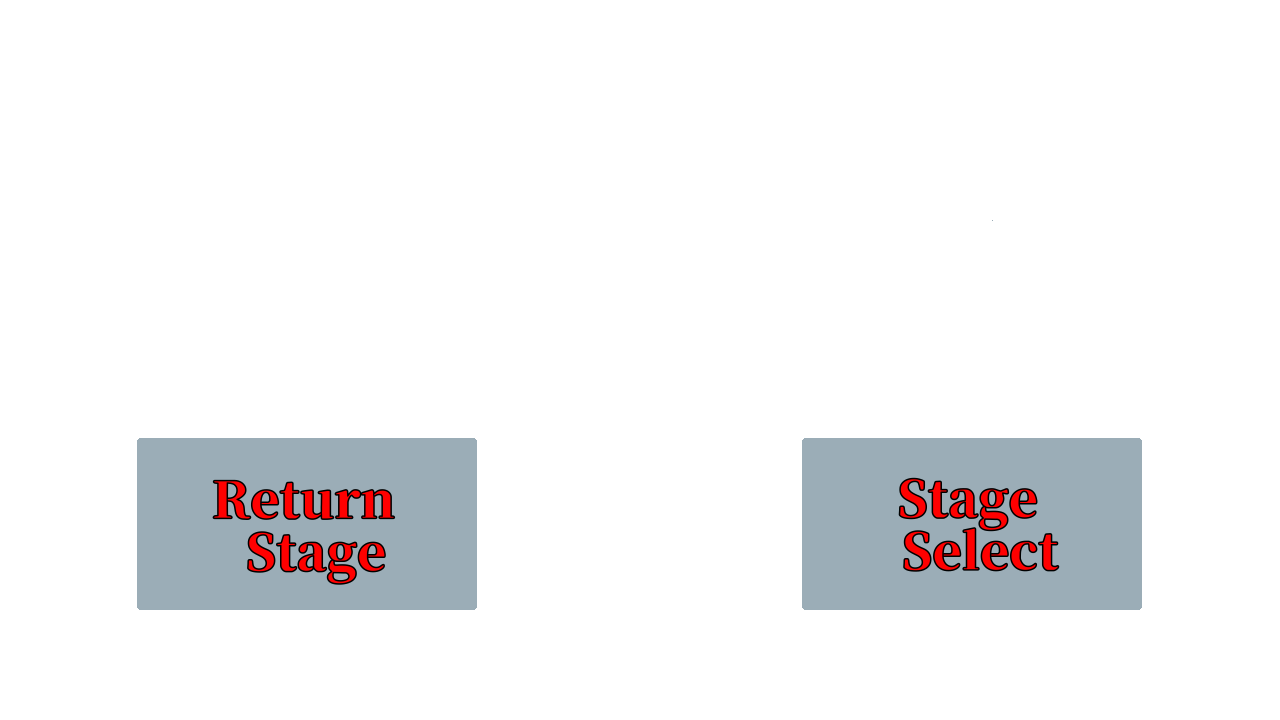
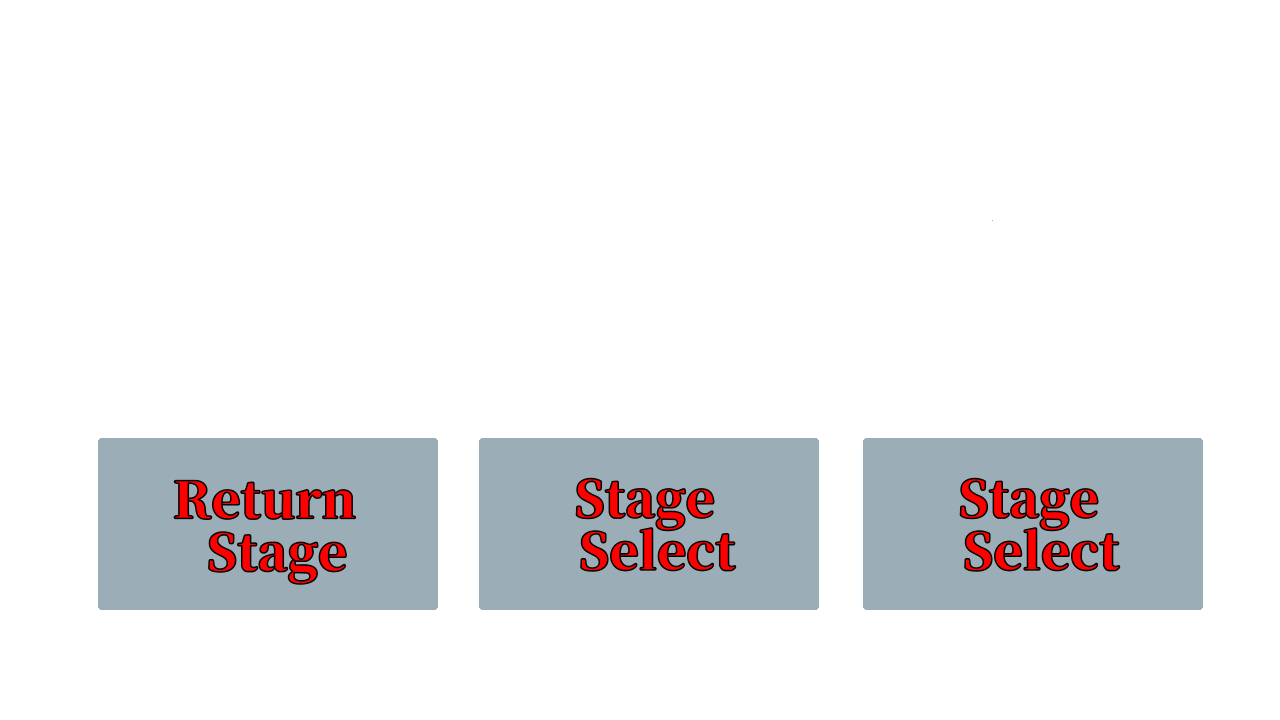
Goal途中まで

Changed region(s): [[0.3438, 0.6111, 0.9375, 0.8556], [0.0625, 0.6111, 0.3125, 0.8556]]

diff --git a/project/gamedata/scenes/GameClearScene.cpp b/project/gamedata/scenes/GameClearScene.cpp
@@ -40,9 +40,6 @@ void GameClearScene::Initialize() {
 		sprite_[i]->SetAnchor(Vector2{ 0.5f,0.5f });
 	}
 
-	spriteTransform_[3].translate.num[0] = 717.0f;
-	spriteTransform_[3].translate.num[1] = 632.0f;
-
 	//Timer
 	numbers_ = std::make_unique<Numbers>();
 	numbers_->Initialize();
@@ -54,6 +51,9 @@ void GameClearScene::Initialize() {
 
 	//Datas
 	datas_ = Datas::GetInstance();
+
+	spriteTransform_[3].translate.num[0] = 1061.0f;
+	spriteTransform_[3].translate.num[1] = 632.0f;
 }
 
 void GameClearScene::Update() {
@@ -63,14 +63,24 @@ void GameClearScene::Update() {
 	numbers_->SetNum(datas_->GetClearTime() / 60);
 	numbers_->SetTransform(numbersTransform_);
 
-	if (input_->PressKey(DIK_A) && spriteTransform_[3].translate.num[0] == 1381.0f)
+	if (input_->TriggerKey(DIK_A) && spriteTransform_[3].translate.num[0] == 1061.0f)
 	{
-		spriteTransform_[3].translate.num[0] = 717.0f;
+		spriteTransform_[3].translate.num[0] = 680.0f;
 	}
 
-	if (input_->PressKey(DIK_D) && spriteTransform_[3].translate.num[0] == 717.0f)
+	if (input_->TriggerKey(DIK_A) && spriteTransform_[3].translate.num[0] == 1441.0f)
 	{
-		spriteTransform_[3].translate.num[0] = 1381.0f;
+		spriteTransform_[3].translate.num[0] = 1061.0f;
+	}
+
+	if (input_->TriggerKey(DIK_D) && spriteTransform_[3].translate.num[0] == 1061.0f)
+	{
+		spriteTransform_[3].translate.num[0] = 1441.0f;
+	}
+
+	if (input_->TriggerKey(DIK_D) && spriteTransform_[3].translate.num[0] == 680.0f)
+	{
+		spriteTransform_[3].translate.num[0] = 1061.0f;
 	}
 
 	ImGui::Begin("debug");
@@ -79,19 +89,34 @@ void GameClearScene::Update() {
 	ImGui::SliderFloat3("trans", numbersTransform_.translate.num, 0.0f, 2280.0f);
 	ImGui::End();
 
-	if (spriteTransform_[3].translate.num[0] == 717.0f && input_->TriggerKey(DIK_SPACE) && 
+	//左側(現在のステージを繰り返し)
+	if (spriteTransform_[3].translate.num[0] == 680.0f && input_->TriggerKey(DIK_SPACE) &&
 		GameSelectScene::stageNum == 1) {
 		sceneNo = GAME_SCENE;
 		audio_->SoundPlayWave(selectData_, 0.1f, false);
 	}
 
-	if (spriteTransform_[3].translate.num[0] == 717.0f && input_->TriggerKey(DIK_SPACE) &&
+	if (spriteTransform_[3].translate.num[0] == 680.0f && input_->TriggerKey(DIK_SPACE) &&
 		GameSelectScene::stageNum == 2) {
 		sceneNo = GAME_SCENE2;
 		audio_->SoundPlayWave(selectData_, 0.1f, false);
 	}
 
-	if (spriteTransform_[3].translate.num[0] == 1381.0f && input_->TriggerKey(DIK_SPACE)) {
+	//真ん中(次のステージ)
+	if (spriteTransform_[3].translate.num[0] == 1061.0f && input_->TriggerKey(DIK_SPACE) &&
+		datas_->GetStageNum() == 1) {
+		sceneNo = GAME_SCENE2;
+		audio_->SoundPlayWave(selectData_, 0.1f, false);
+	}
+
+	if (spriteTransform_[3].translate.num[0] == 1061.0f && input_->TriggerKey(DIK_SPACE) &&
+		datas_->GetStageNum() == 2) {
+		sceneNo = TITLE_SCENE;
+		audio_->SoundPlayWave(selectData_, 0.1f, false);
+	}
+
+	//右側(ステージセレクト)
+	if (spriteTransform_[3].translate.num[0] == 1441.0f && input_->TriggerKey(DIK_SPACE)) {
 		sceneNo = SELECT_SCENE;
 		audio_->SoundPlayWave(selectData_, 0.1f, false);
 	}

diff --git a/project/gamedata/scenes/GamePlayScene2.cpp b/project/gamedata/scenes/GamePlayScene2.cpp
@@ -146,6 +146,8 @@ void GamePlayScene2::Update() {
 	globalVariables = GlobalVariables::GetInstance();
 	ApplyGlobalVariables();
 
+	datas_->SetStageNum(2);
+
 	if (isGameStart_ == true) {//ゲーム開始時の処理
 		for (int i = 0; i < objCount_; i++) {
 			SetObject(EulerTransform{ { 1.0f,1.0f,1.0f }, {0.0f,0.0f,0.0f}, {0.0f,0.0f,0.0f} }, objNameHolder_[i]);
@@ -258,14 +260,14 @@ void GamePlayScene2::Update() {
 		}
 	}
 
-	if (input_->TriggerKey(DIK_X)) {//Xkeyでカーソル表示変更
-		if (showCursor == (int)true) {
-			showCursor = (int)false;
-		}
-		else {
-			showCursor = (int)true;
-		}
-	}
+	//if (input_->TriggerKey(DIK_X)) {//Xkeyでカーソル表示変更
+	//	if (showCursor == (int)true) {
+	//		showCursor = (int)false;
+	//	}
+	//	else {
+	//		showCursor = (int)true;
+	//	}
+	//}
 
 	for (Obj& obj : objects_) {//レイとオブジェクトの当たり判定
 		if (obj.isHit == true) {

diff --git a/project/gamedata/scenes/GamePlayScene.cpp b/project/gamedata/scenes/GamePlayScene.cpp
@@ -146,6 +146,8 @@ void GamePlayScene::Update() {
 	globalVariables = GlobalVariables::GetInstance();
 	ApplyGlobalVariables();
 
+	datas_->SetStageNum(1);
+
 	if (isGameStart_ == true) {//ゲーム開始時の処理
 		for (int i = 0; i < objCount_; i++) {
 			SetObject(EulerTransform{ { 4.0f,30.0f,4.0f }, {0.0f,0.0f,0.0f}, {0.0f,0.0f,0.0f} }, objNameHolder_[i]);
@@ -258,14 +260,14 @@ void GamePlayScene::Update() {
 		}
 	}
 
-	if (input_->TriggerKey(DIK_X)) {//Xkeyでカーソル表示変更
-		if (showCursor == (int)true) {
-			showCursor = (int)false;
-		}
-		else {
-			showCursor = (int)true;
-		}
-	}
+	//if (input_->TriggerKey(DIK_X)) {//Xkeyでカーソル表示変更
+	//	if (showCursor == (int)true) {
+	//		showCursor = (int)false;
+	//	}
+	//	else {
+	//		showCursor = (int)true;
+	//	}
+	//}
 
 	for (Obj& obj : objects_) {//レイとオブジェクトの当たり判定
 		if (obj.isHit == true) {

diff --git a/project/gamedata/player/Player.cpp b/project/gamedata/player/Player.cpp
@@ -266,14 +266,14 @@ void Player::Updete(const ViewProjection viewProjection) {
 	}
 
 	//ゴール
-	if (GameSelectScene::stageNum == 1 && worldTransform_.translation_.num[2] >= 250.0f)
+	if (Iscene::sceneNo == GAME_SCENE && worldTransform_.translation_.num[2] >= 250.0f)
 	{
 		isGoal_ = true;
 		isActive_ = false;
 		isSetWire_ = false;
 		physics_->SetVelocity({ 0.0f, 0.0f, 0.0f });
 	}
-	else if (GameSelectScene::stageNum == 2 && worldTransform_.translation_.num[2] >= 500.0f)
+	else if (Iscene::sceneNo == GAME_SCENE2 && worldTransform_.translation_.num[2] >= 500.0f)
 	{
 		isGoal_ = true;
 		isActive_ = false;

diff --git a/project/gamedata/scenes/GameSelectScene.cpp b/project/gamedata/scenes/GameSelectScene.cpp
@@ -74,12 +74,12 @@ void GameSelectScene::Update() {
 		spriteTransform_[2].translate.num[0] = 1048.0f;
 	}
 
-	if (input_->PressKey(DIK_S) && spriteTransform_[2].translate.num[1] == 360.0f)
+	if (input_->TriggerKey(DIK_S) && spriteTransform_[2].translate.num[1] == 360.0f)
 	{
 		spriteTransform_[2].translate.num[1] = 610.0f;
 	}
 
-	if (input_->PressKey(DIK_W) && spriteTransform_[2].translate.num[1] == 610.0f)
+	if (input_->TriggerKey(DIK_W) && spriteTransform_[2].translate.num[1] == 610.0f)
 	{
 		spriteTransform_[2].translate.num[1] = 360.0f;
 	}

diff --git a/project/gamedata/goal/Goal.cpp b/project/gamedata/goal/Goal.cpp
@@ -21,7 +21,7 @@ void Goal::Update()
 	//worldTransform_.rotation_.num[1] += 0.001f;
 	//worldTransform_.rotation_.num[2] += 0.001f;
 
-	if (GameSelectScene::stageNum == 1)
+	if (Iscene::sceneNo == GAME_SCENE)
 	{
 		for (int i = 0; i < 2; i++)
 		{
@@ -30,7 +30,7 @@ void Goal::Update()
 			worldTransform_[i].scale_ = { 100.0f,100.0f,100.0f };
 		}
 	}
-	else if (GameSelectScene::stageNum == 2)
+	else if (Iscene::sceneNo == GAME_SCENE2)
 	{
 		for (int i = 0; i < 2; i++)
 		{

diff --git a/project/gamedata/datas/datas.h b/project/gamedata/datas/datas.h
@@ -9,6 +9,9 @@ public:
 	void SetClearTime(const int clearTime) { clearTime_ = clearTime; }
 	const int& GetClearTime() { return clearTime_; }
 
+	void SetStageNum(const int stageNum) { stageNum_ = stageNum; }
+	const int& GetStageNum() { return stageNum_; }
+
 private:
 	Datas() = default;
 	~Datas() = default;
@@ -16,5 +19,7 @@ private:
 	Datas& operator=(const Datas& obj) = default;
 
 	int clearTime_;
+
+	int stageNum_ = 0;
 };
 

diff --git a/project/gamedata/mountain/Mountain.cpp b/project/gamedata/mountain/Mountain.cpp
@@ -67,7 +67,7 @@ void Mountain::Update()
 
 void Mountain::Draw(const ViewProjection viewProjection)
 {
-	if (GameSelectScene::stageNum == 1)
+	if (Iscene::sceneNo == GAME_SCENE)
 	{
 		for (int i = 0; i < 4; i++)
 		{
@@ -79,7 +79,7 @@ void Mountain::Draw(const ViewProjection viewProjection)
 			}
 		}
 	}
-	else if (GameSelectScene::stageNum == 2)
+	else if (Iscene::sceneNo == GAME_SCENE2)
 	{
 		for (int i = 0; i < 8; i++)
 		{
